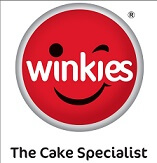
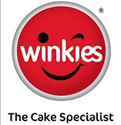
sponsors img compress

diff --git a/src/index.html b/src/index.html
@@ -1493,7 +1493,7 @@
                     <div class="sponsors-content">
                         <div class = "sponsor">
                             <div class = "sponsor-img">
-                                <div><img src = "./assets/imgs/sponsors/s1.png" alt = "Associate Sponsor Hindi Prof Show"/></div>
+                                <div><img src = "./assets/imgs/sponsors/s1.jpg" alt = "Associate Sponsor Hindi Prof Show"/></div>
                             </div>
                             <div class = "sponsor-title theme-color-text">Associate Sponsor Hindi Prof Show</div>
                         </div>
@@ -1505,13 +1505,13 @@
                         </div>
                         <div class = "sponsor">
                             <div class = "sponsor-img">
-                                <div><img src = "./assets/imgs/sponsors/s3.png" alt = "Silver Sponsor"/></div>
+                                <div><img src = "./assets/imgs/sponsors/s3.jpg" alt = "Silver Sponsor"/></div>
                             </div>
                             <div class = "sponsor-title theme-color-text">Silver Sponsor</div>
                         </div>
                         <div class = "sponsor">
                             <div class = "sponsor-img">
-                                <div><img src = "./assets/imgs/sponsors/s4.png" alt = "Congnizance Partner"/></div>
+                                <div><img src = "./assets/imgs/sponsors/s4.jpg" alt = "Congnizance Partner"/></div>
                             </div>
                             <div class = "sponsor-title theme-color-text">Congnizance Partner</div>
                         </div>
@@ -1541,7 +1541,7 @@
                         </div>
                         <div class = "sponsor">
                             <div class = "sponsor-img">
-                                <div><img src = "./assets/imgs/sponsors/s9.jpeg" alt = "Photography Partner"/></div>
+                                <div><img src = "./assets/imgs/sponsors/s9.jpg" alt = "Photography Partner"/></div>
                             </div>
                             <div class = "sponsor-title theme-color-text">Photography Partner</div>
                         </div>
